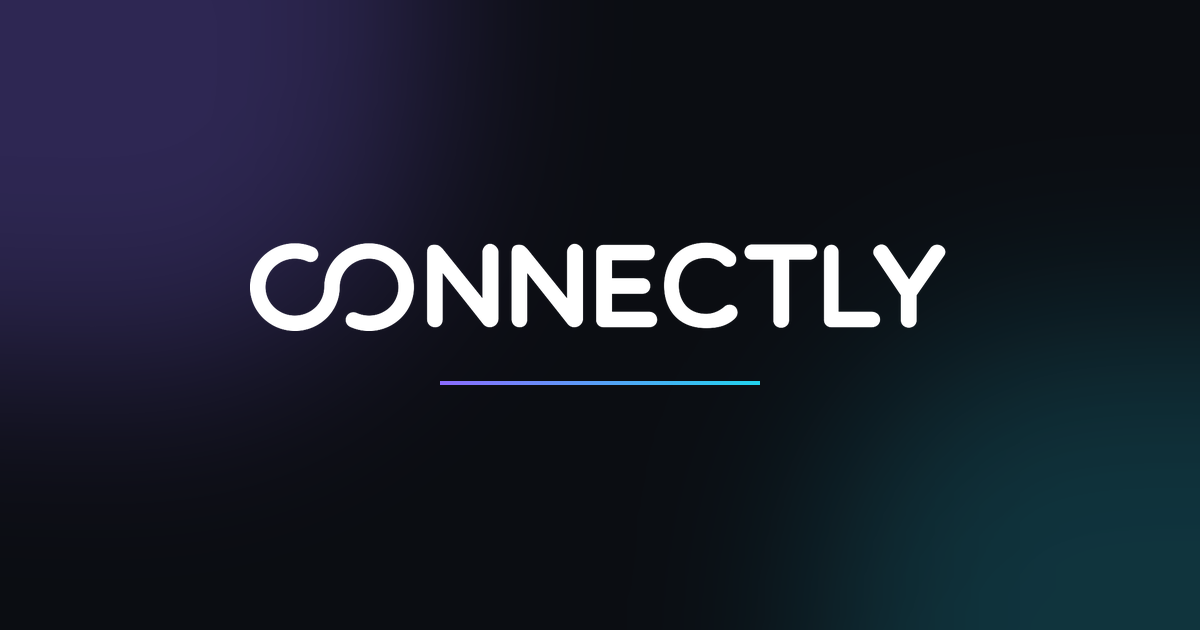
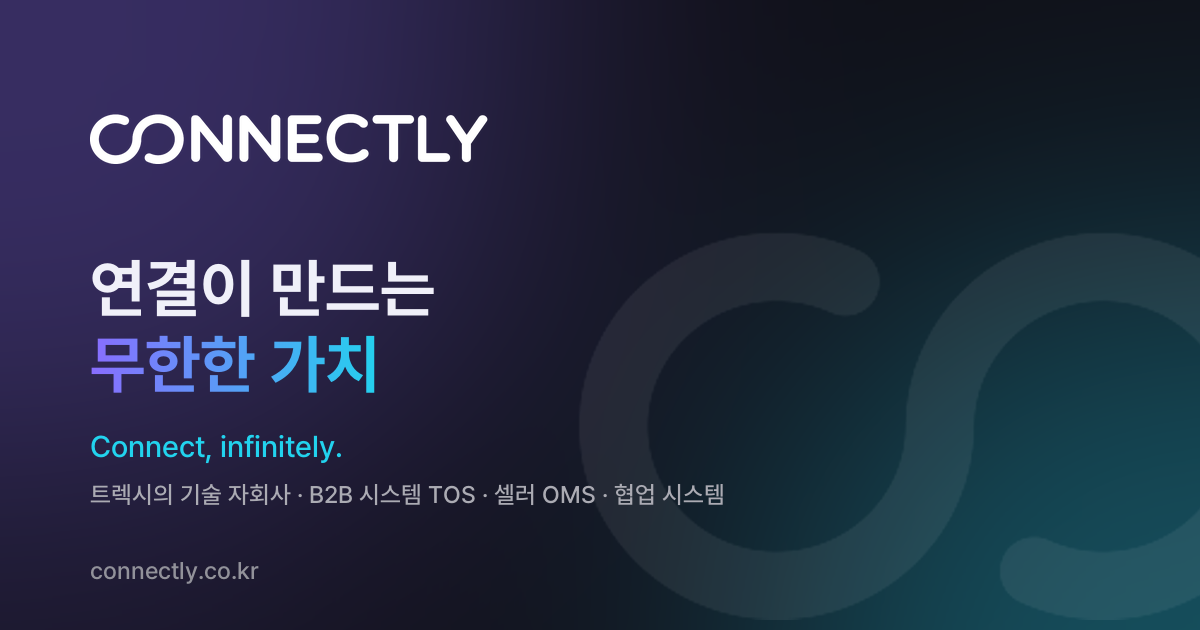
공유 미리보기(OG) 이미지 교체, 정사각 로고 추가

diff --git a/index.html b/index.html
@@ -33,7 +33,8 @@
         "Connectly Inc."
       ],
       "url": "https://connectly.co.kr/",
-      "logo": "https://connectly.co.kr/assets/og-image.png",
+      "logo": "https://connectly.co.kr/assets/logo-square.png",
+      "image": "https://connectly.co.kr/assets/og-image.png",
       "foundingDate": "2020-01",
       "slogan": "연결이 만드는 무한한 가치",
       "description": "트렉시의 기술 자회사 커넥틀리는 B2B 시스템 TOS, 셀러 OMS, 협업 시스템을 만들어 유통 현장의 AX를 이끕니다.",
